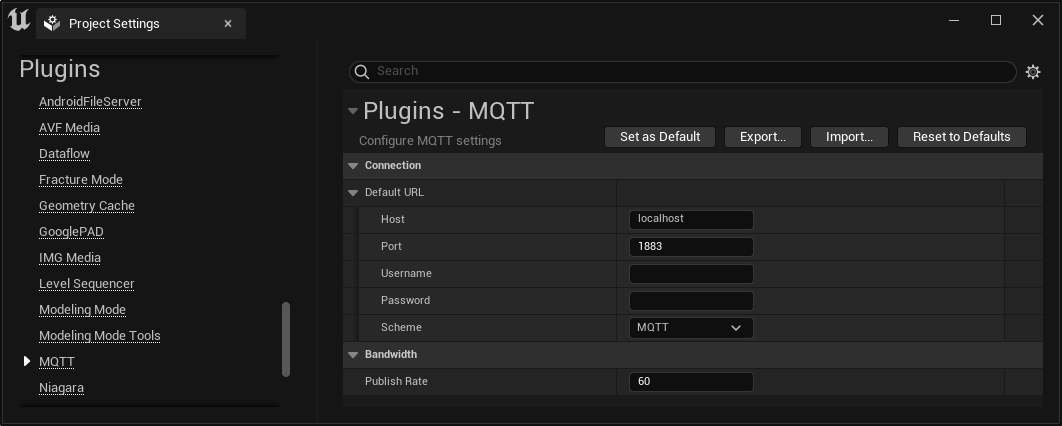
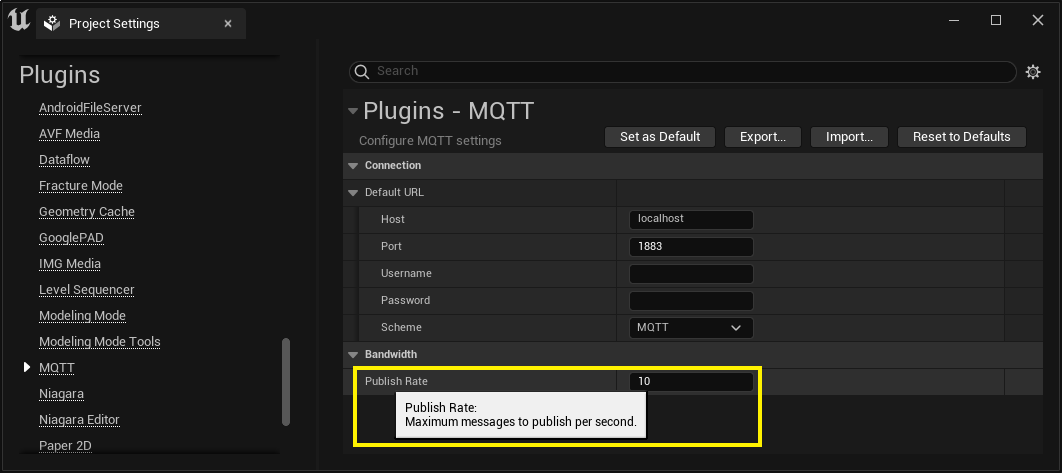
doc: update readme, ue plugin mqtt

diff --git a/README.md b/README.md
@@ -12,6 +12,8 @@
 
 Unreal Engine Project "Heartbeat" &mdash; Heart Rate Monitoring Integration
 
+<div style='page-break-after: always'></div>
+
 ## Description
 
 An Unreal&reg; Engine project as proof-of-concept for receiving physiological data from Polar&reg; H10 heart rate monitor.
@@ -128,7 +130,7 @@ Clone UE project "Heartbeat" using git, e.g., by ```git clone https://github.com
 
 #### 2.3.1. Plugin MQTT
 
-The UE Heartbeat project uses the built-in IOT MQTT plugin (see Figure 2.2.1. and 2.2.2.). Note: As of UE 5.1, the plugin is beta and not yet documented.
+The UE Heartbeat project uses the plugin "Built-In > IOT > MQTT" (see Figure 2.2.1.). Note: As of UE 5.1, the plugin is beta and not yet documented. In the "Project Settings > Plugin > MQTT"  we use the "Connection > Default URL" values Host `localhost`, Port `1883` and Scheme `MQTT`. To be able to process data from a maximum heart rate of 180 bpm resp. from 180 messages per minute, we set the "Bandwith > Publish Rate" to double (Nyquist–Shannon sampling theorem), i.e. 360 messages per minute, which corresponds to $ \frac{ 360 \text{ messages per minute}}{ 60 \text{ seconds per minute}} = 6 \text{ messages per second} $ ($ 6 \text{ Hz} $). To ensure that the transmission of MQTT meta data is also guaranteed, we round up to the next $ 10 \text{ Hz } $, i.e. `10` messages per second. (cp. figure 2.2.2.).
 
 ![ScreenshotPlugin](Docs/ScreenshotPlugin.png)
 *Figure 2.2.1.: Unreal Engine Plugins Browser Tab with Built-in IOT Plugin "MQTT"*
@@ -140,20 +142,20 @@ The UE Heartbeat project uses the built-in IOT MQTT plugin (see Figure 2.2.1. an
 
 #### 2.3.2. Demo Map and Demo Blueprint Overview
 
-Map `Map_PSL_Demo` holds a Blueprint `BP_PSL_Demo` instance and additionally a TextRenderActor instance, which is assigned to the `BP_PSL_Demo` variable `TextRender` as Object Reference (see Figure 2.3.).
+Map `Map_PSL_Demo` holds a Blueprint `BP_PSL_Demo` instance and additionally a TextRenderActor instance, which is assigned to the `BP_PSL_Demo` variable `TextRender` as Object Reference (see figure 2.3.).
 
 ![Map_PSL_Demo with instances of Blueprint BP_PSL_Demo and TextRenderActor in the Outliner and in the Viewport](Docs/UEProjectHeartbeat-Map_PSL_Demo.png)
 *Figure 2.3.: Map_PSL_Demo with instances of Blueprint BP_PSL_Demo and TextRenderActor in the Outliner and in the Viewport*
 
 <div style='page-break-after: always'></div>
 
-Blueprint `BP_PSL_Demo` has components and variables as follows (see Figure 2.4.):
+Blueprint `BP_PSL_Demo` has components and variables as follows (see figure 2.4.):
 
 * Scene Components:
   * Static Mesh Component `HeartMesh`
 * Actor Components:
   * Rotating Movement Component
-  * Timeline Component `HeartbeatTimeline` (see Figure 2.5.):
+  * Timeline Component `HeartbeatTimeline` (see figure 2.5.):
     * External Curve: Default Asset Curve Template `PulseOut`
     * Lenght: `1.00`
     * Looping: `on`
@@ -172,16 +174,16 @@ Blueprint `BP_PSL_Demo` has components and variables as follows (see Figure 2.4.
 
 <div style='page-break-after: always'></div>
 
-Blueprint `BP_PSL_Demo` has events as follows (see Figure 2.6.):
+Blueprint `BP_PSL_Demo` has events as follows (see figure 2.6.):
 
-* Gameplay: EventBeginPlay, EventEndPlay
-* Messaging: OnConnect, OnDisconnect, OnMessage
+* Gameplay: `EventBeginPlay`, `EventEndPlay`
+* Messaging: `OnConnect`, `OnDisconnect`, `OnMessage`
 * Visualisation:
-  * Main: HeartbeatStandby, HeartbeatUpdate, HeartbeatDeactivate
-  * Helpers: TextRenderBlink, HeartbeatReset
-* Testing: Testing01, Testing02, Testing03
+  * Main: `HeartbeatStandby`, `HeartbeatUpdate`, `HeartbeatDeactivate`
+  * Helpers: `TextRenderBlink`, `HeartbeatReset`
+* Testing: `Testing01`, `Testing02`, `Testing03`
 
-Blueprint `BP_PSL_Demo` has Event Graph sections as follows (see Figure 2.6.):
+Blueprint `BP_PSL_Demo` has Event Graph sections as follows (see figure 2.6.):
 
 * 'Startup Messaging' (color green, cp. section 3.1.)
 * 'Teardown Messaging' (color violet, cp. section 3.2.)
@@ -195,7 +197,7 @@ Blueprint `BP_PSL_Demo` has Event Graph sections as follows (see Figure 2.6.):
 
 ### 2.4. Mosquitto
 
-Install Mosquitto MQTT-Broker (cp. [6]) and start the Windows Service "Mosquitto Broker" (see Figure 2.9.).
+Install Mosquitto MQTT-Broker (cp. [6]) and start the Windows Service "Mosquitto Broker" (see figure 2.9.).
 
 ![Screenshot Mosquitto Broker as Windows Service](Docs/ScreenshotMosquittoWindowsService.png)
 *Figure 2.9.: Mosquitto Broker as Windows Service*
@@ -280,7 +282,7 @@ We subscribe to the latter topic only.
     -91,
     -103,
     -117,
-    -117
+    ...
   ]
 }
 ```
@@ -319,7 +321,7 @@ PIE: Play in editor total start time 0.132 seconds.
 
 ### 3.1. Messaging Startup
 
-On `EventBeginPlay` an MQTT-Client is created and connected (see Figure 3.1.). The MQTT-Plugin writes to the output log with custom log category `LogMQTTCore` (see listing 3.2.). Wireshark dissecting port 1883 lists, e.g., the `Connect Command` sent from the UE MQTT-Client (see Figure 3.2.).
+On `EventBeginPlay` an MQTT-Client is created and connected (see figure 3.1.). The MQTT-Plugin writes to the output log with custom log category `LogMQTTCore` (see listing 3.2.). Wireshark dissecting port 1883 lists, e.g., the `Connect Command` sent from the UE MQTT-Client (see figure 3.2.).
 
 With event `OnConnect` &ndash; if the connection was accepted &ndash; the topic is subscribed and event `HeartbeatStandby` is called (cp. section 3.1.1.). With event `OnMessage` the received message is evaluated by calling event `HeartbeatUpdate` (cp. section 3.1.2.).
 
@@ -361,9 +363,9 @@ LogMQTTCore: Verbose: Operations deferred: 0
 
 #### 3.1.1. Heartbeat Standby
 
-With event `OnConnect` the topic is subscribed and event `HeartbeatStandby` is called, which starts a visual feedback (see Figure 3.3.): The `RotatingMovement` is activated and the `TextRenderVisibilityTimer` is started `looping` within `0.5` seconds calling event `TextRenderBlink` which switches the `TextRender` visibility on and off by a `FlipFlop`.
+With event `OnConnect` the topic is subscribed and event `HeartbeatStandby` is called, which starts a visual feedback (see figure 3.3.): The `RotatingMovement` is activated and the `TextRenderVisibilityTimer` is started `looping` within `0.5` seconds calling event `TextRenderBlink` which switches the `TextRender` visibility on and off by a `FlipFlop`.
 
-As result the Mesh Component `HeartMesh` rotates and the TextRenderActor `TextRender` is blinking (see Figures 3.4.1. and 3.4.2.).
+As result the Mesh Component `HeartMesh` rotates and the TextRenderActor `TextRender` is blinking (see figures 3.4.1. and 3.4.2.).
 
 ![Blueprint BP_PSL_Demo, Event Graph Section 'Heartbeat Standby'](Docs/UEProjectHeartbeat-BP_PSL_Demo_HeartbeatStandby.png)
 *Figure 3.3.: Blueprint BP_PSL_Demo, Event Graph Section 'Heartbeat Standby'*
@@ -379,9 +381,9 @@ As result the Mesh Component `HeartMesh` rotates and the TextRenderActor `TextRe
 
 #### 3.1.2. Heartbeat Update
 
-With event `OnMessage` the received message payload is evaluated by calling event `HeartbeatUpdate`, which updates the visual feedback (see Figure 3.5.): The RR interval from JSON-Field `rr` in Milliseconds [ms] is converted to [Hz] and is set as `HeartbeatTimeline` play rate. The HR value from JSON-Field `hr` is set to `TextRender`.
+With event `OnMessage` the received message payload is evaluated by calling event `HeartbeatUpdate`, which updates the visual feedback (see figure 3.5.): The RR interval from JSON-Field `rr` in Milliseconds [ms] is converted to [Hz] and is set as `HeartbeatTimeline` play rate. The HR value from JSON-Field `hr` is set to `TextRender`.
 
-As result the Mesh-Component `HeartMesh` bumps frequently as given by RR interval and the TextRenderActor `TextRender` shows the heart rate (see Figures 3.6.1. and 3.6.2.).
+As result the Mesh-Component `HeartMesh` bumps frequently as given by RR interval and the TextRenderActor `TextRender` shows the heart rate (see figures 3.6.1. and 3.6.2.).
 
 ![Blueprint BP_PSL_Demo, Event Graph Section 'Heartbeat Update'](Docs/UEProjectHeartbeat-BP_PSL_Demo_HeartbeatUpdate.png)
 *Figure 3.5.: Blueprint BP_PSL_Demo, Event Graph Section 'Heartbeat Update'*
@@ -429,7 +431,7 @@ LogBlueprintUserMessages: [BP_PSL_Demo_C_1] {
 
 ### 3.2. Messaging Teardown
 
-With stopping PIE, on `EventEndPlay` the topic is unsubscribed (see Figure 3.7.). With event `HeartbeatDeactivate` the Mesh Component `HeartMesh` and the TextRenderActor animation is stopped and reset (see Figure 3.8.). Then the MQTT-Client disconnects, `OnDisconnect` a message is printed to the output log (see listing 3.4.).
+With stopping PIE, on `EventEndPlay` the topic is unsubscribed (see figure 3.7.). With event `HeartbeatDeactivate` the Mesh Component `HeartMesh` and the TextRenderActor animation is stopped and reset (see figure 3.8.). Then the MQTT-Client disconnects, `OnDisconnect` a message is printed to the output log (see listing 3.4.).
 
 ![Blueprint BP_PSL_Demo, Event Graph Section 'Teardown'](Docs/UEProjectHeartbeat-BP_PSL_Demo_Teardown.png)
 *Figure 3.7.: Blueprint BP_PSL_Demo, Event Graph Section 'Teardown'*
